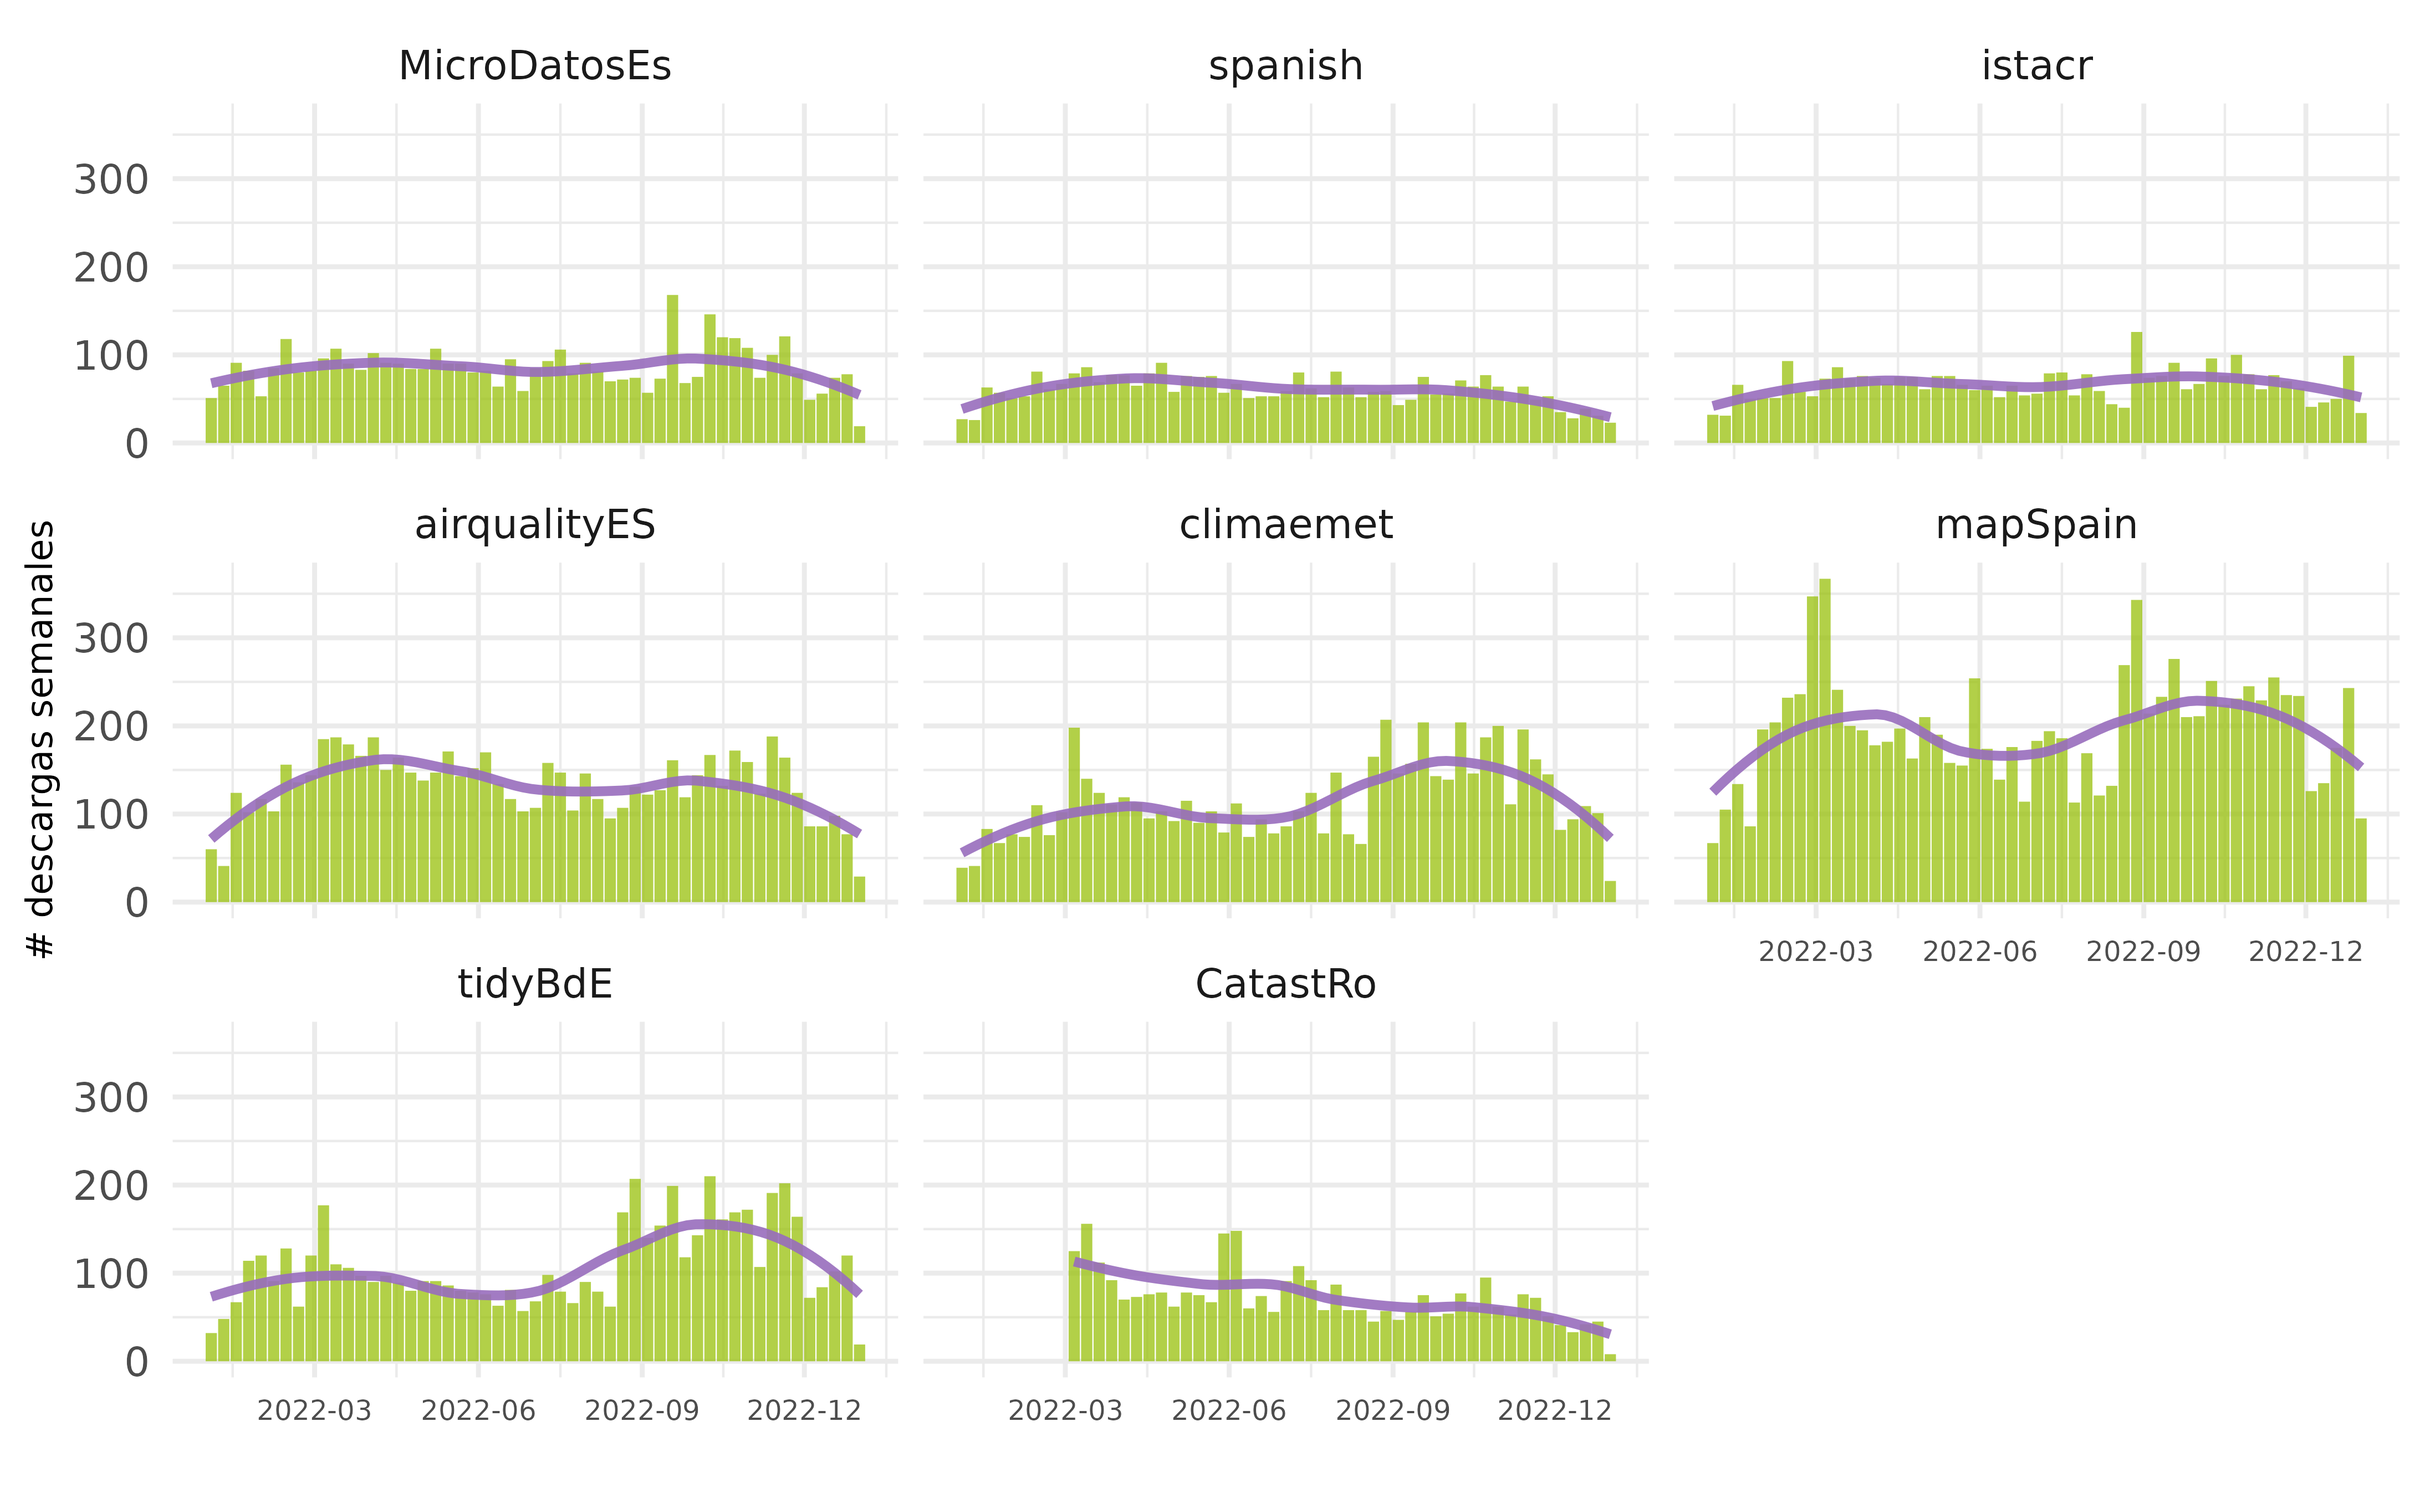
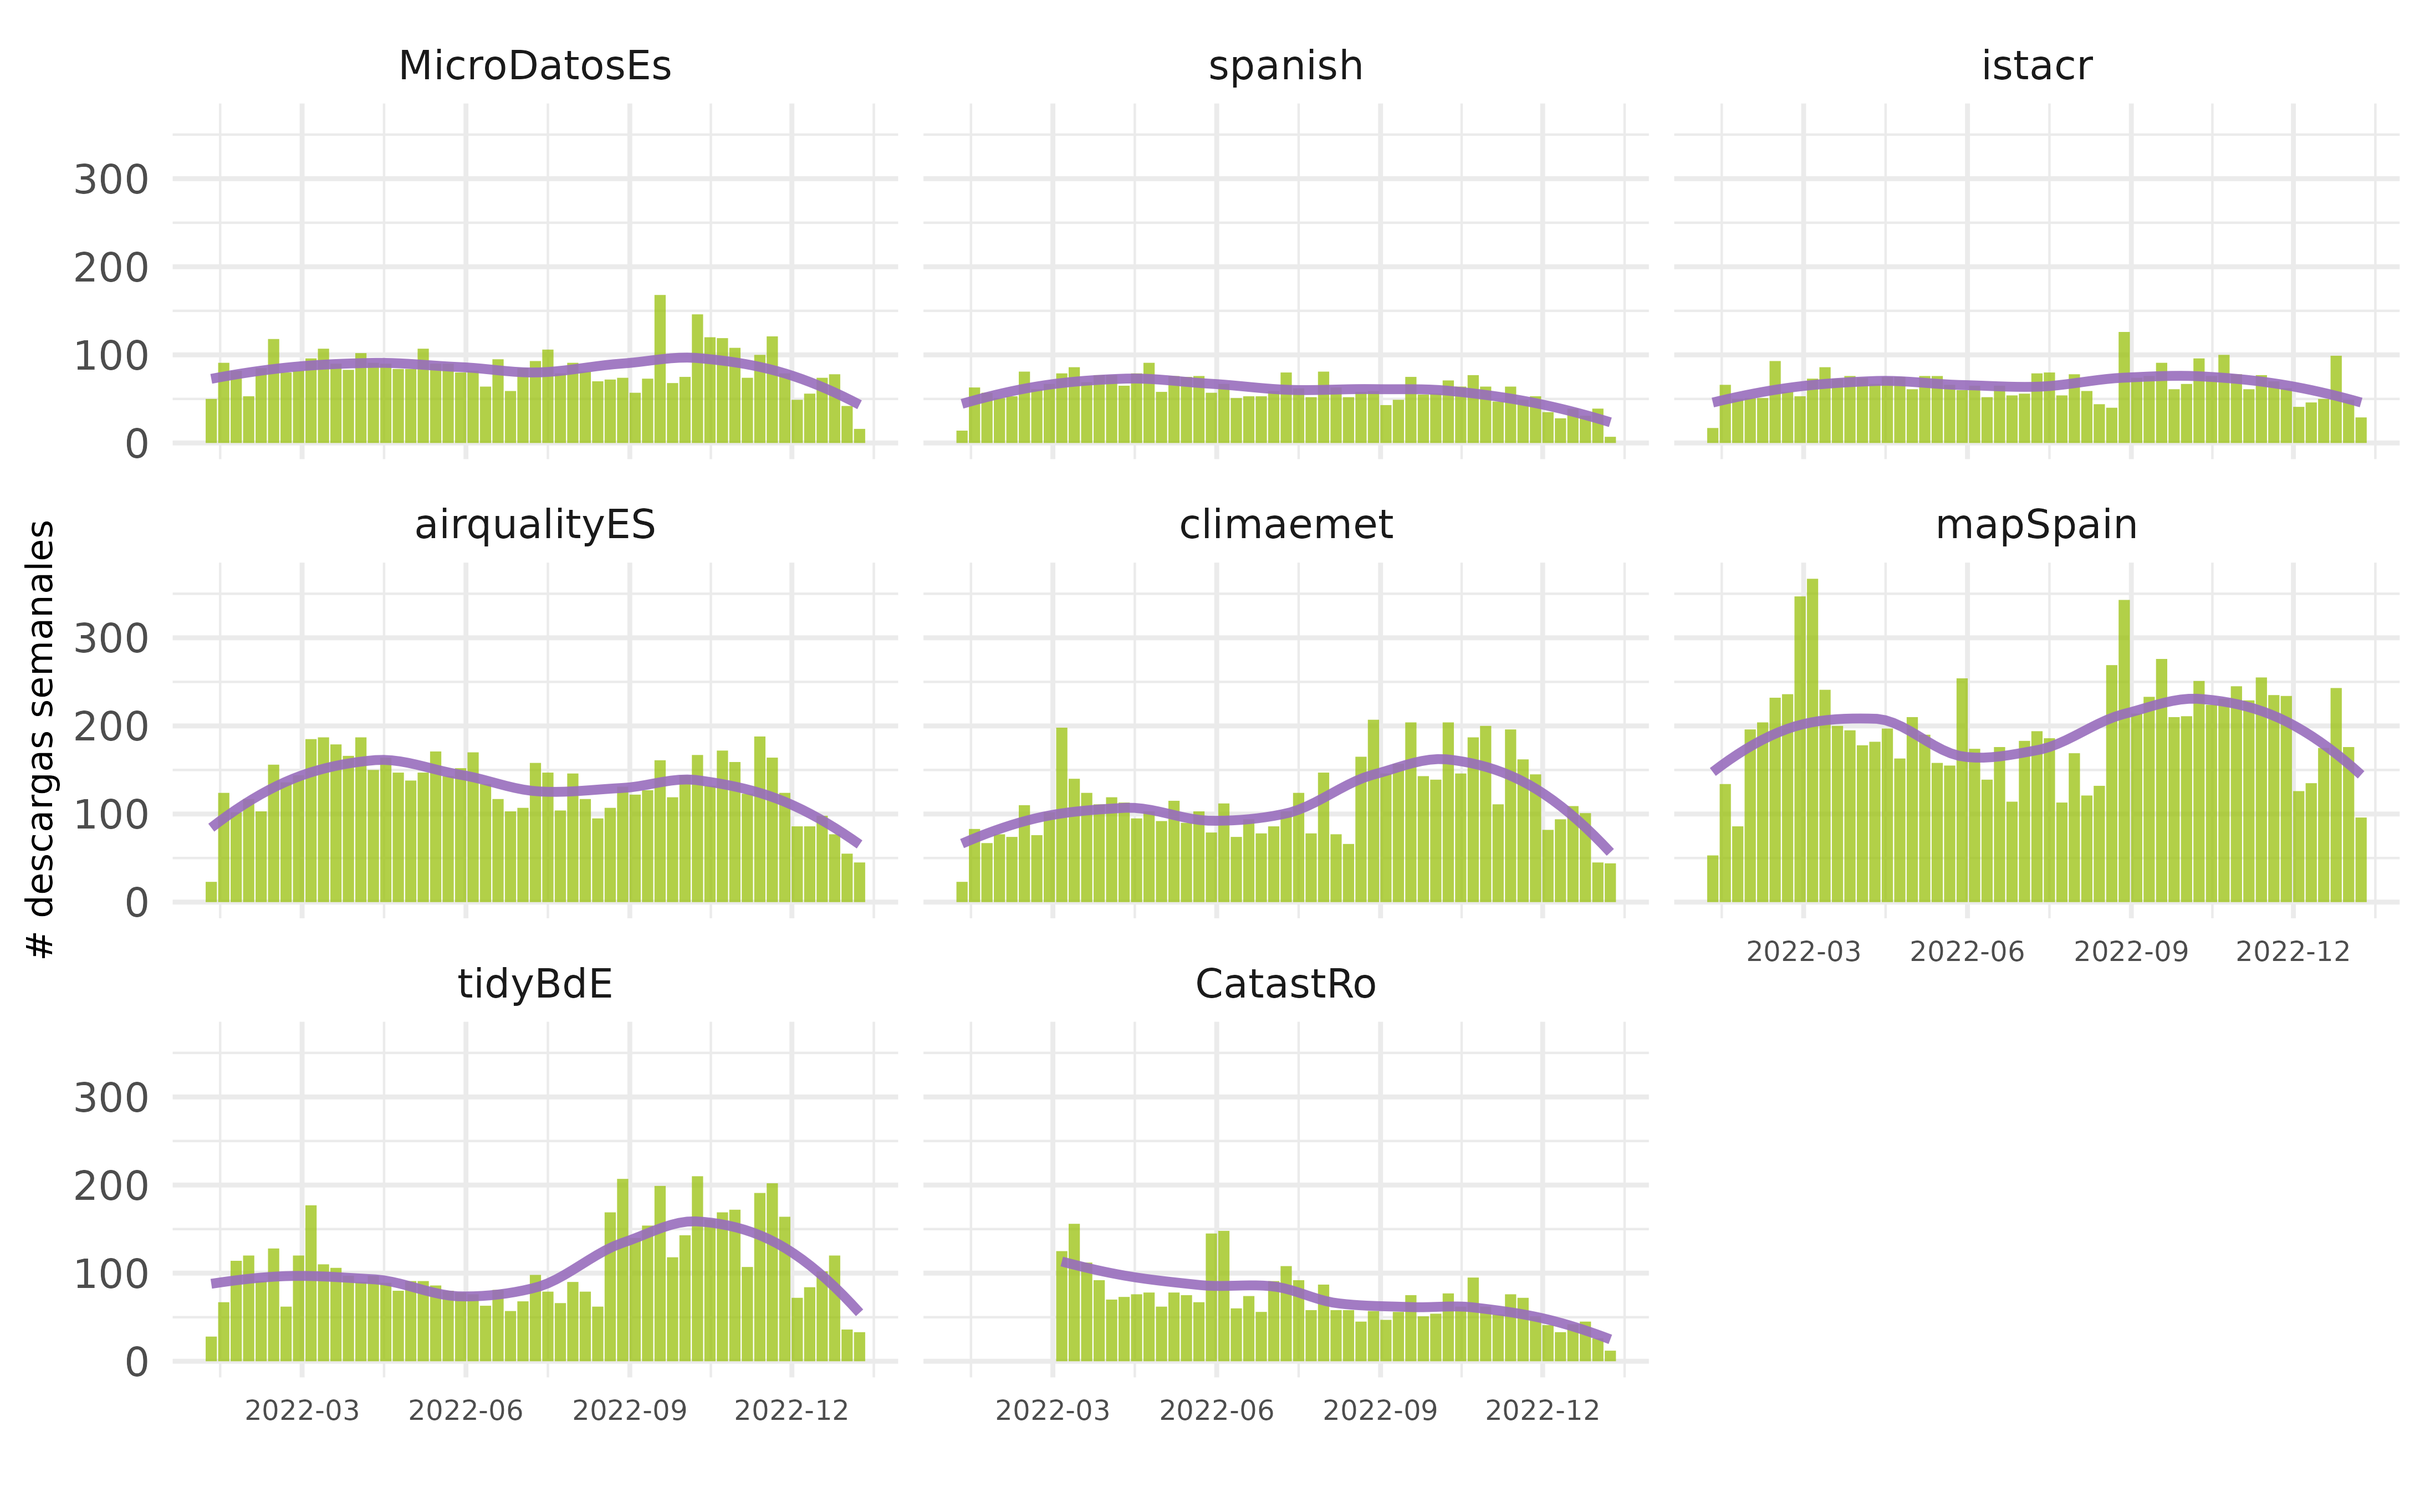
Built site for rostemplate: 0.1.1.9000@9bdd130

diff --git a/articles/descargas.html b/articles/descargas.html
@@ -101,7 +101,7 @@
 
     
     
-<p><em>Fecha de actualización: 29 Dec 2022</em></p>
+<p><em>Fecha de actualización: 05 Jan 2023</em></p>
 <p>Descargas de paquetes de rOpenSpain desde CRAN.</p>
 <div class="section level2">
 <h2 id="total-de-descargas">Total de descargas<a class="anchor" aria-label="anchor" href="#total-de-descargas"></a>
@@ -117,7 +117,7 @@
 <h2 id="datos">Datos<a class="anchor" aria-label="anchor" href="#datos"></a>
 </h2>
 <div class="reactable html-widget html-fill-item-overflow-hidden html-fill-item" id="station-table" style="width:auto;height:auto;"></div>
-<script type="application/json" data-for="station-table">{"x":{"tag":{"name":"Reactable","attribs":{"data":{"paquete":["CatastRo","tidyBdE","mapSpain","climaemet","airqualityES","istacr","spanish","MicroDatosEs"],"en CRAN":["2022-02-28","2021-04-08","2020-11-30","2020-07-07","2020-02-29","2019-04-24","2017-12-14","2013-10-21"],"media descargas diarias":[10.6,16,24.6,16.1,21.1,12.9,11.4,13.2],"ultimo dia":[3,3,33,10,5,12,11,4],"ultima semana":[29,114,264,92,66,103,37,70],"ultimo mes":[154,364,715,375,332,253,144,255],"ultimo año":[3201,5776,10432,6112,7013,3534,3164,4536]},"columns":[{"id":"paquete","name":"paquete","type":"character"},{"id":"en CRAN","name":"en CRAN","type":"Date"},{"id":"media descargas diarias","name":"media descargas diarias","type":"numeric"},{"id":"ultimo dia","name":"ultimo dia","type":"numeric"},{"id":"ultima semana","name":"ultima semana","type":"numeric"},{"id":"ultimo mes","name":"ultimo mes","type":"numeric"},{"id":"ultimo año","name":"ultimo año","type":"numeric"}],"filterable":true,"searchable":true,"showPageSizeOptions":true,"paginationType":"jump","striped":true,"elementId":"station-table","dataKey":"8fbfc03dd9653f2fdbe22dcaf1442472"},"children":[]},"class":"reactR_markup"},"evals":[],"jsHooks":[]}</script>
+<script type="application/json" data-for="station-table">{"x":{"tag":{"name":"Reactable","attribs":{"data":{"paquete":["CatastRo","tidyBdE","mapSpain","climaemet","airqualityES","istacr","spanish","MicroDatosEs"],"en CRAN":["2022-02-28","2021-04-08","2020-11-30","2020-07-07","2020-02-29","2019-04-24","2017-12-14","2013-10-21"],"media descargas diarias":[10.5,15.9,24.6,16.1,21,12.8,11.4,13.2],"ultimo dia":[5,26,53,33,22,15,2,3],"ultima semana":[24,43,144,58,60,38,15,32],"ultimo mes":[153,348,795,360,345,269,140,259],"ultimo año":[3231,5774,10490,6120,7006,3532,3148,4509]},"columns":[{"id":"paquete","name":"paquete","type":"character"},{"id":"en CRAN","name":"en CRAN","type":"Date"},{"id":"media descargas diarias","name":"media descargas diarias","type":"numeric"},{"id":"ultimo dia","name":"ultimo dia","type":"numeric"},{"id":"ultima semana","name":"ultima semana","type":"numeric"},{"id":"ultimo mes","name":"ultimo mes","type":"numeric"},{"id":"ultimo año","name":"ultimo año","type":"numeric"}],"filterable":true,"searchable":true,"showPageSizeOptions":true,"paginationType":"jump","striped":true,"elementId":"station-table","dataKey":"8706aedd4a3ce6f4da16aca81567df52"},"children":[]},"class":"reactR_markup"},"evals":[],"jsHooks":[]}</script>
 </div>
   </main><aside class="col-md-3"><nav id="toc"><h2>En esta página</h2>
     </nav></aside>

diff --git a/authors.html b/authors.html
@@ -67,11 +67,11 @@
       <h2 id="citation">Cita</h2>
       <p><small class="dont-index">Código: <a href="https://github.com/ropenspain/rostemplate/blob/HEAD/inst/CITATION" class="external-link"><code>inst/CITATION</code></a></small></p>
 
-      <p>Hernangomez, D. (2022). rostemplate: Plantilla 'pkgdown' para los paquetes de 'rOpenSpain'. R package version 0.1.1.9000. Package url: https://ropenspain.github.io/rostemplate/</p>
+      <p>Hernangomez, D. (2023). rostemplate: Plantilla 'pkgdown' para los paquetes de 'rOpenSpain'. R package version 0.1.1.9000. Package url: https://ropenspain.github.io/rostemplate/</p>
       <pre>@Manual{,
   title = {rostemplate: Plantilla 'pkgdown' para los paquetes de 'rOpenSpain'},
   author = {Diego Hernangómez},
-  year = {2022},
+  year = {2023},
   note = {R package version 0.1.1.9000},
   url = {https://ropenspain.github.io/rostemplate/},
 }</pre>
